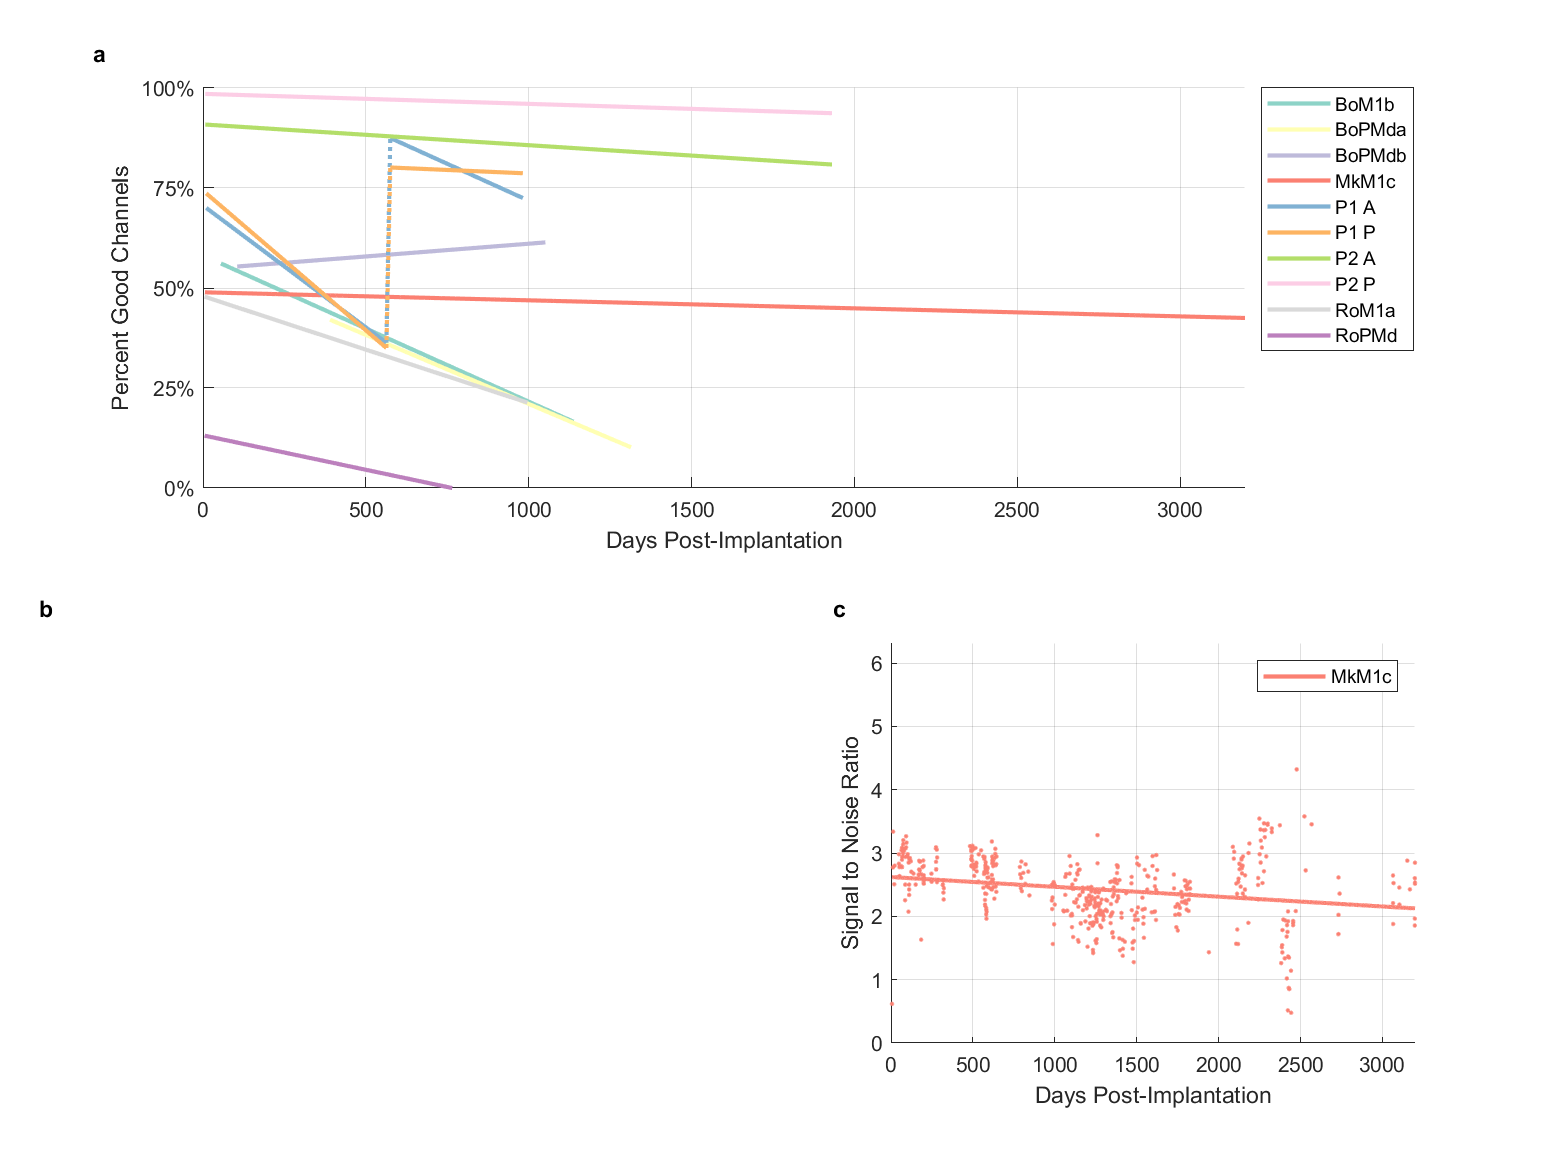
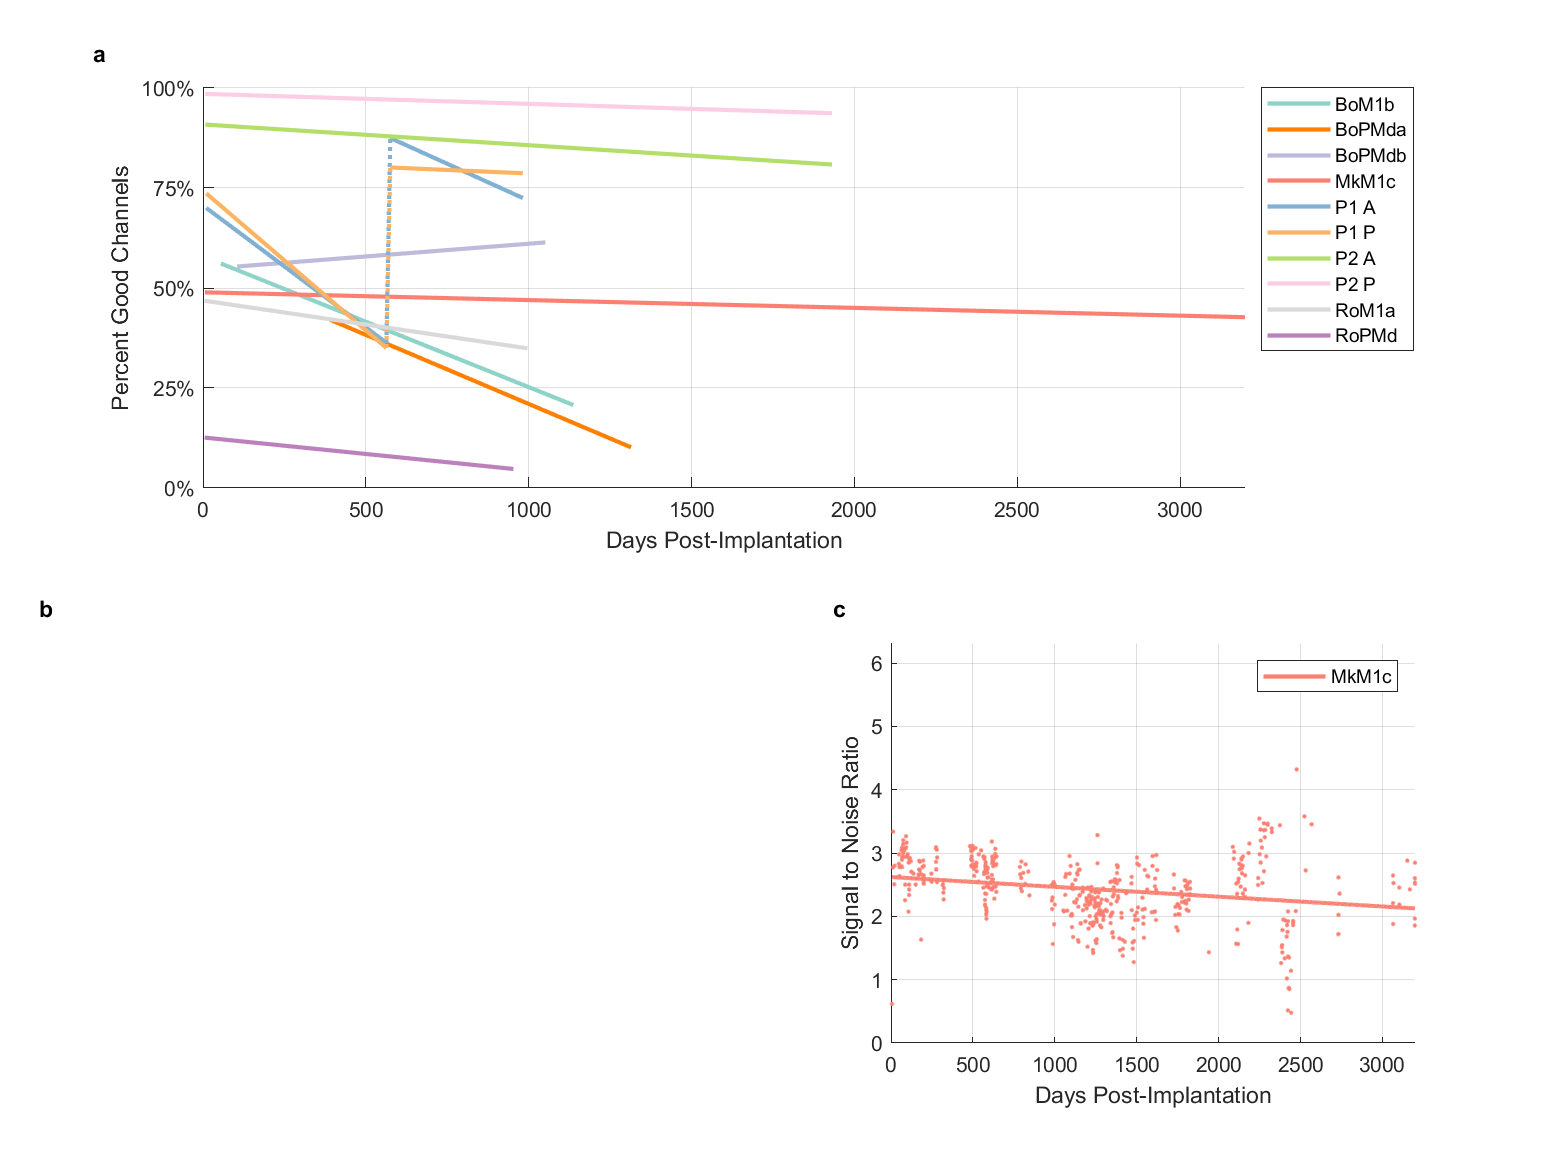
working on SfN presentation

diff --git a/code/paper_figures_code/longterm_array_examples.m b/code/paper_figures_code/longterm_array_examples.m
@@ -12,7 +12,7 @@ box off
 array_names = unique({array_data.array_name});
 array_names_for_legend = unique([array_data.array_name_abbrev]);
 colors = [[141,211,199];...
-[255,255,179];...
+[255,127,0];...
 [190,186,218];...
 [251,128,114];...
 [128,177,211];...
@@ -48,7 +48,7 @@ for iArray = 1:length(array_names)
             file_count = file_count + 1;
         end
     end
-    if max(relative_days_temp) > 730
+    if max(relative_days_temp) > 950
 %         plot(relative_days_temp,good_channels_temp,'.','markersize',5,'color',colors_dots(iArray,:));
     end
     clear good_channels_temp
@@ -68,48 +68,42 @@ for iArray = 1:length(array_names)
             file_count = file_count + 1;
         end
     end
-    
+     
     if max(relative_days_temp) > 950
         if strcmp(array_names{iArray},'P1_A') || strcmp(array_names{iArray},'P1_P')
             plot_names{iPlotName} = strrep(array_names_for_legend{iArray},'_',' ');
             % First Half
-            quad_fit_to_good_channels = polyfit(relative_days_temp(relative_days_temp <= 563),good_channels_temp(relative_days_temp <= 563),1);
-            quad_fit_to_good_channels = ...
-                polyval(quad_fit_to_good_channels,min(relative_days_temp(relative_days_temp <= 563)):1:max(relative_days_temp(relative_days_temp <= 563)));
+            quad_fit_to_good_channels = fitlm(relative_days_temp(relative_days_temp <= 563),good_channels_temp(relative_days_temp <= 563));
             plots{iPlotName} = ...
-                plot(min(relative_days_temp(relative_days_temp <= 563)):1:max(relative_days_temp(relative_days_temp <= 563)),...
-                quad_fit_to_good_channels,'-','color',colors(color_count,:),'linewidth',2);
-            quad_fit_first = quad_fit_to_good_channels;
+                plot([min(relative_days_temp(relative_days_temp <= 563)),max(relative_days_temp(relative_days_temp <= 563))],...
+                [quad_fit_to_good_channels.Fitted(1),quad_fit_to_good_channels.Fitted(end)],'-','color',colors(color_count,:),'linewidth',2);
+            quad_fit_first = quad_fit_to_good_channels.Fitted;
             % Second Half
-            quad_fit_to_good_channels = polyfit(relative_days_temp(relative_days_temp > 563),good_channels_temp(relative_days_temp > 563),1);
-            quad_fit_to_good_channels = ...
-                polyval(quad_fit_to_good_channels,min(relative_days_temp(relative_days_temp > 563)):1:max(relative_days_temp(relative_days_temp > 563)));
-            plot(min(relative_days_temp(relative_days_temp > 563)):1:max(relative_days_temp(relative_days_temp > 563)),...
-                quad_fit_to_good_channels,'-','color',colors(color_count,:),'linewidth',2);
+            quad_fit_to_good_channels = fitlm(relative_days_temp(relative_days_temp > 563),good_channels_temp(relative_days_temp > 563));
+            plot([min(relative_days_temp(relative_days_temp > 563)),max(relative_days_temp(relative_days_temp > 563))],...
+                [quad_fit_to_good_channels.Fitted(1),quad_fit_to_good_channels.Fitted(end)],'-','color',colors(color_count,:),'linewidth',2);
             
-            %             plot(relative_days_temp,good_channels_temp,'.','markersize',5,'color',colors_dots(iArray,:));
+%                         plot(relative_days_temp,good_channels_temp,'.','markersize',5,'color',colors(color_count,:));
 
-            line([563,575],[quad_fit_first(end),quad_fit_to_good_channels(1)],'LineStyle',':','color',colors(color_count,:),'Linewidth',2)
+            line([563,575],[quad_fit_first(end),quad_fit_to_good_channels.Fitted(1)],'LineStyle',':','color',colors(color_count,:),'Linewidth',2)
             iPlotName = iPlotName + 2;
             color_count = color_count + 1;
         else
             plot_names{iPlotName} = strrep(array_names_for_legend{iArray},'_',' ');
-            quad_fit_to_good_channels = polyfit(relative_days_temp,good_channels_temp,1);
-            quad_fit_to_good_channels = ...
-                polyval(quad_fit_to_good_channels,min(relative_days_temp):1:max(relative_days_temp));
             
-            if max(quad_fit_to_good_channels)>128
+            quad_fit_to_good_channels = fitlm(relative_days_temp,good_channels_temp);
+            
+            
+            if max(quad_fit_to_good_channels.Fitted)>1
                 disp('stop, who are you even')
             elseif mod(iPlotName,2) == 1
-                plots{iPlotName} = ...
-                    plot(min(relative_days_temp):1:max(relative_days_temp),...
-                    quad_fit_to_good_channels,'-','color',colors(color_count,:),'linewidth',2);
+                 plots{iPlotName} = plot([min(relative_days_temp),max(relative_days_temp)],...
+                    [quad_fit_to_good_channels.Fitted(1),quad_fit_to_good_channels.Fitted(end)],'-','color',colors(color_count,:),'linewidth',2);
             else
-                plots{iPlotName} = ...
-                    plot(min(relative_days_temp):1:max(relative_days_temp),...
-                    quad_fit_to_good_channels,'-','color',colors(color_count,:),'linewidth',2);
+                 plots{iPlotName} = plot([min(relative_days_temp),max(relative_days_temp)],...
+                    [quad_fit_to_good_channels.Fitted(1),quad_fit_to_good_channels.Fitted(end)],'-','color',colors(color_count,:),'linewidth',2);
             end
-            %             plot(relative_days_temp,good_channels_temp,'.','markersize',5,'color',colors_dots(iArray,:));
+%                         plot(relative_days_temp,good_channels_temp,'.','markersize',5,'color',colors(color_count,:));
             iPlotName = iPlotName + 1;
             color_count = color_count + 1;
         end

diff --git a/code/paper_figures_code/supplementary_figures/area_histograms.m b/code/paper_figures_code/supplementary_figures/area_histograms.m
@@ -7,7 +7,7 @@ function area_histograms(array_data)
 
 
 %%
-figure('name','Histograms','visible','off','color','w');
+figure('name','Histograms','visible','on','color','w');
 set(gcf,'pos',[350,400,1000,500])
 array_names = unique({array_data.array_name});
 all_array_names_temp = {array_data.array_name};
